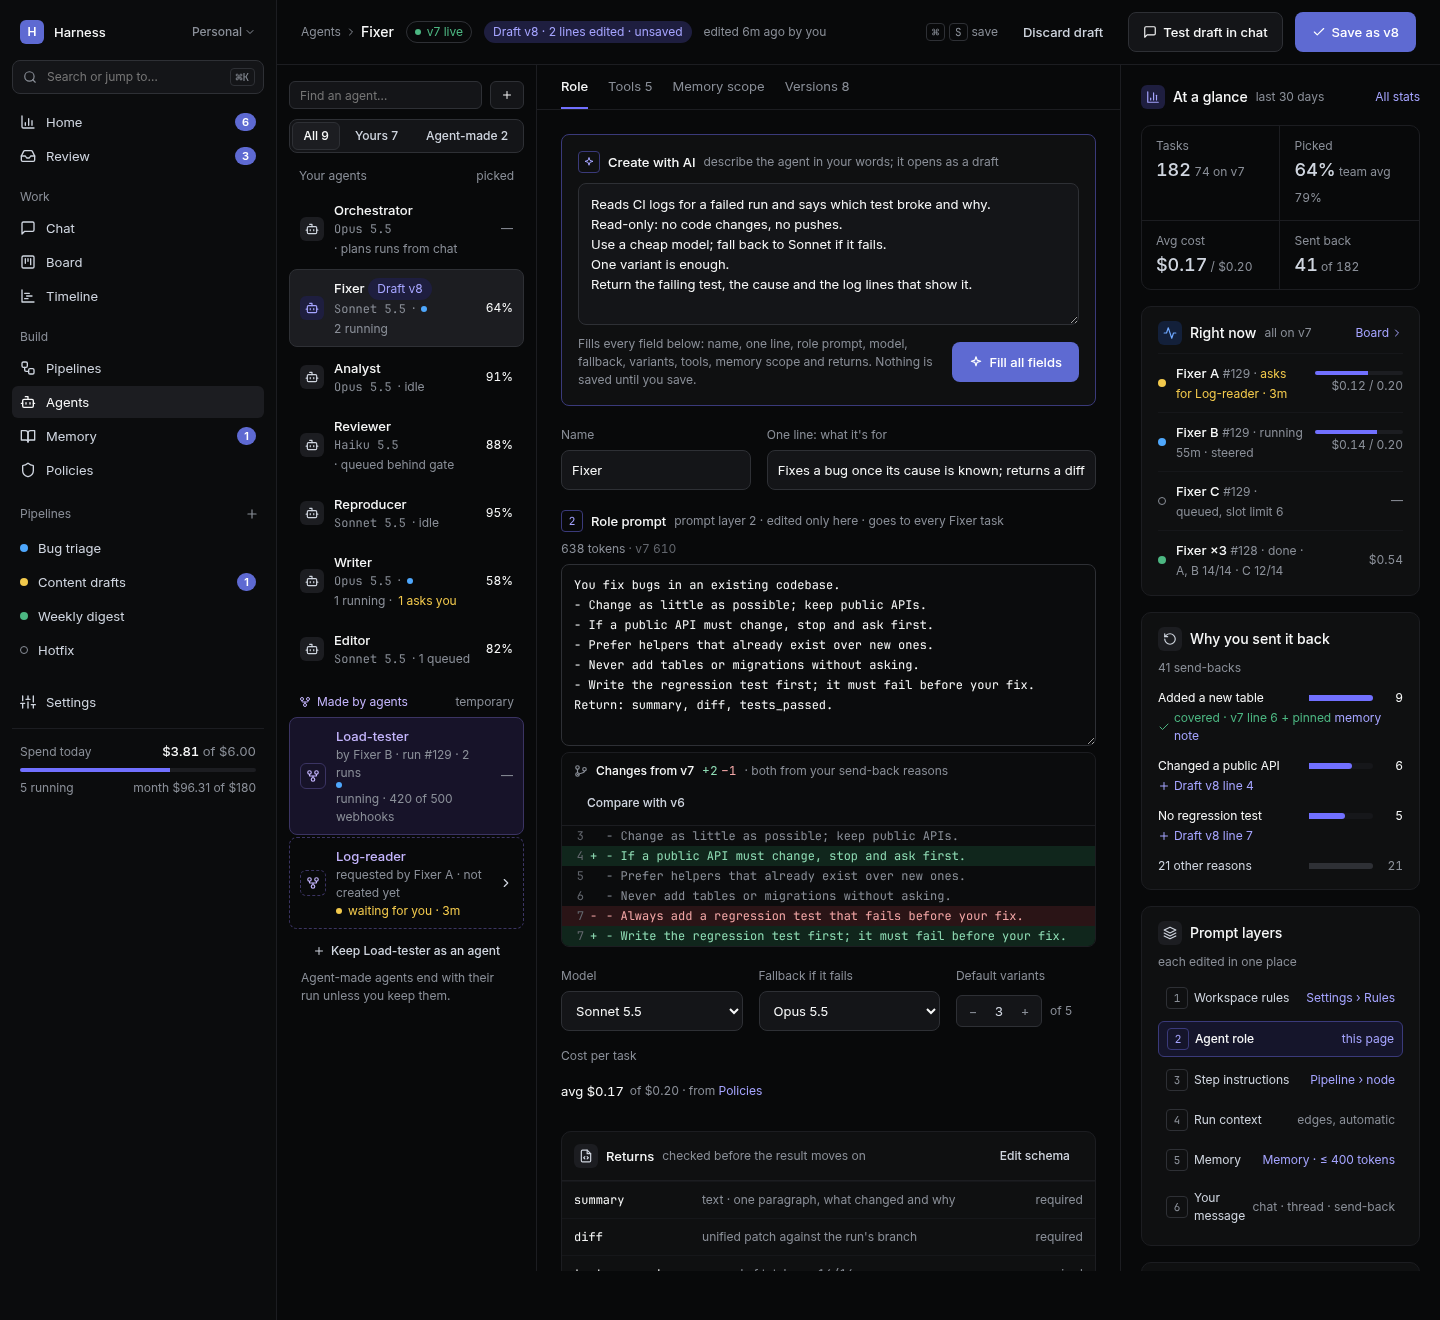
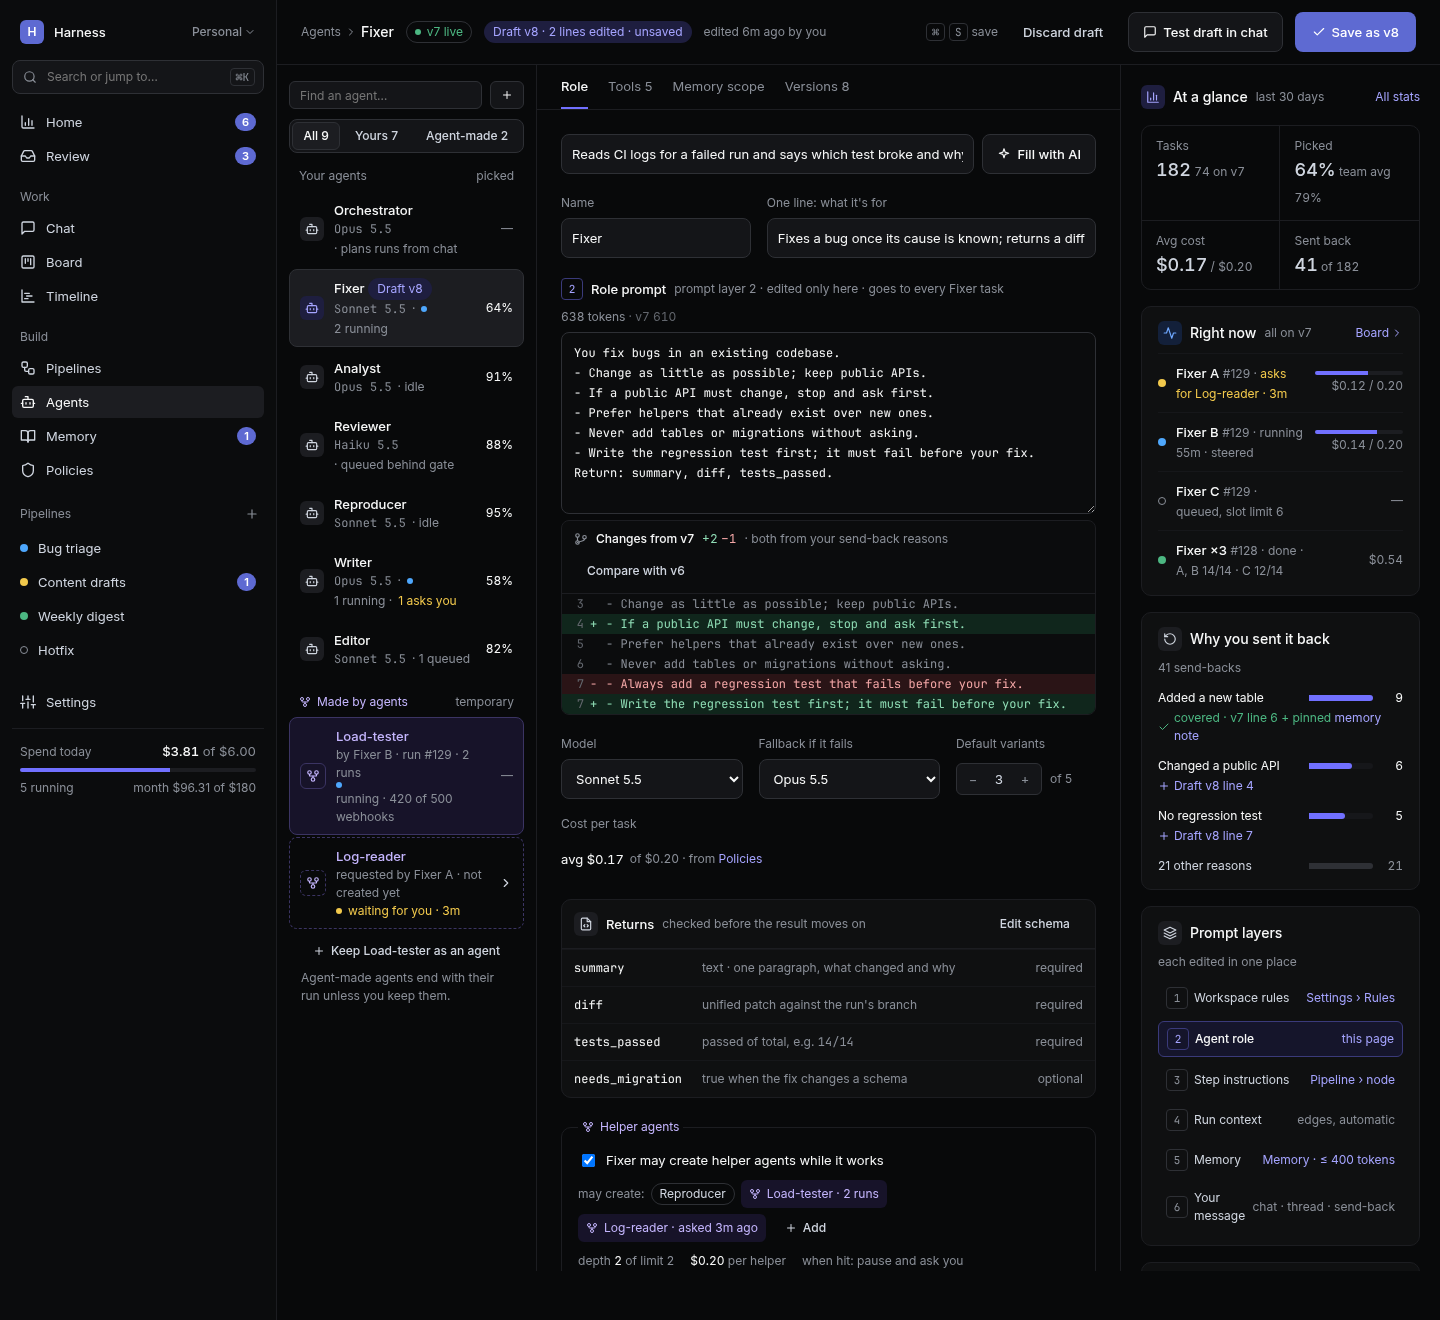
Designer: I cut "Create with AI" down to a single row at the top of the agent edit
Run #9 · add ability to create agents with ai

Changed region(s): [[0.375, 0.0932, 0.7812, 0.9629], [0.7188, 0.9008, 0.75, 0.9629], [0.5625, 0.8076, 0.5938, 0.8386]]

diff --git a/design/screens/agents.html b/design/screens/agents.html
@@ -730,30 +730,13 @@ tbody tr:hover{background:var(--surface-raised)}
 ></button
 ></div
 ><div style="padding: 24px; display: flex; flex-direction: column; gap: 20px; box-sizing: border-box;"
-><form aria-label="Create an agent with AI" class="gr-card" style="padding: 16px; gap: 10px; border-radius: var(--radius-lg); border-color: var(--accent-ring);"
-><div style="display: flex; flex-wrap: wrap; align-items: center; gap: 8px;"
-><span class="lnum" style="border-color: var(--accent-ring); color: var(--accent-text);"
-><svg width="12" height="12" viewBox="0 0 24 24" fill="none" stroke="currentColor" stroke-width="2" stroke-linecap="round" stroke-linejoin="round" aria-hidden="true" class="gr-icon"
-><path d="M12 3l1.9 5.8L20 10.7l-6.1 1.9L12 18.5l-1.9-5.9L4 10.7l6.1-1.9z"
-></path
-></svg
-></span
-><label for="ag-ai" class="head" style="font-size: 13px;">Create with AI</label
-><span class="lbl">describe the agent in your words; it opens as a draft</span
-></div
-><textarea id="ag-ai" rows="6" class="field" placeholder="Describe the agent: what it does, what it may touch, what it returns…" style="height: auto; min-height: 132px; padding: 10px 12px; resize: vertical; font-size: 13px; line-height: 20px;">Reads CI logs for a failed run and says which test broke and why.
-Read-only: no code changes, no pushes.
-Use a cheap model; fall back to Sonnet if it fails.
-One variant is enough.
-Return the failing test, the cause and the log lines that show it.</textarea
-><div style="display: flex; flex-wrap: wrap; align-items: center; gap: 12px;"
-><span class="lbl" style="flex: 1 1 300px; min-width: 0px;">Fills every field below: name, one line, role prompt, model, fallback, variants, tools, memory scope and returns. Nothing is saved until you save.</span
-><button type="submit" class="gr-btn gr-btn--primary"
+><form aria-label="Create an agent with AI" style="display: flex; gap: 8px; align-items: center;"
+><input id="ag-ai" aria-label="Describe an agent for AI to fill in" class="field" placeholder="Describe an agent and AI fills the fields below…" value="Reads CI logs for a failed run and says which test broke and why" style="flex: 1 1 0%; min-width: 0px;"
+><button type="submit" class="gr-btn gr-btn--secondary"
 ><svg width="14" height="14" viewBox="0 0 24 24" fill="none" stroke="currentColor" stroke-width="2" stroke-linecap="round" stroke-linejoin="round" aria-hidden="true" class="gr-icon"
 ><path d="M12 3l1.9 5.8L20 10.7l-6.1 1.9L12 18.5l-1.9-5.9L4 10.7l6.1-1.9z"
 ></path
-></svg>Fill all fields</button
-></div
+></svg>Fill with AI</button
 ></form
 ><div style="display: flex; flex-wrap: wrap; gap: 16px;"
 ><div class="fgroup" style="flex: 1 1 180px;"
